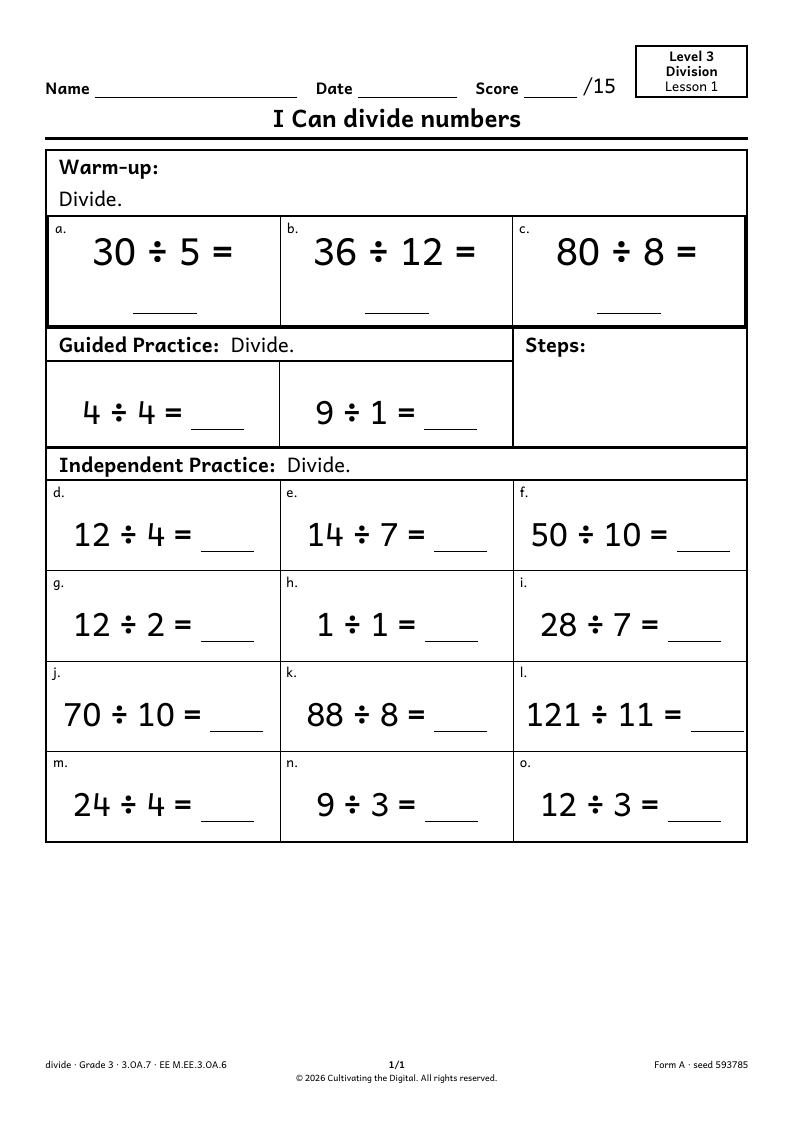
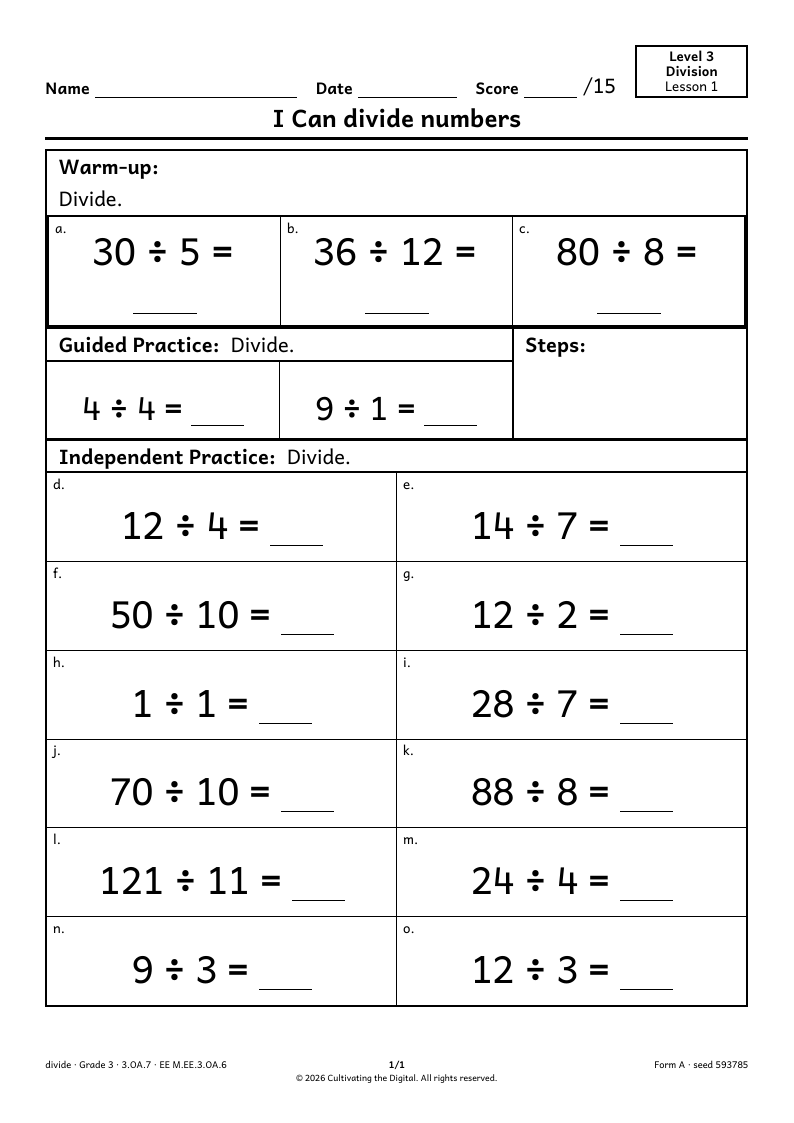
Lesson Independent band keeps CL-8's 3 mm: columns chosen from each problem's measured side clearance (critic R4 R-4)
The host's measurement records how near a cell's drawing comes to its side borders
(measured[cols].slackMm); the lesson's Independent band takes only column counts where every problem
it may print keeps 3 mm - fewer columns, never a cramped or shrunk problem. divide lesson p2 now
2 x 6 at S and L ("121 ÷ 11 = ___" 5.4 / 8.9 mm from its border, was 0.8 mm). Check R-4 on divide and
div_facts Standard at S and L on seeds that deal a 3-digit dividend. add_facts / mult_facts stay
pixel-identical to 50dbfa6; no div_facts evidence page changed.

Claude-Session: https://claude.ai/code/session_01M5EMD5ufNjURHDiNDLJjwD

diff --git a/js/modules/print-sheet.js b/js/modules/print-sheet.js
@@ -996,6 +996,7 @@ function measureItems(items, { size, look, colsList }) {
                     const padR = parseFloat(cs.paddingRight) || 0;
                     let hPx = r.height;
                     let fits = true;
+                    let slackPx = Infinity;
                     let contentBottom = r.top;
                     let stampH = 0;
                     const pics = [];
@@ -1010,6 +1011,11 @@ function measureItems(items, { size, look, colsList }) {
                         }
                         if (el.closest('.ws-legacy-answer')) continue;
                         contentBottom = Math.max(contentBottom, er.bottom);
+                        // CL-8: how near the drawing comes to the cell's side borders (its leaves,
+                        // the label aside) - a role choosing columns keeps 3 mm (critic R4 R-4)
+                        if ((!el.children.length || el.tagName === 'svg') && !el.closest('.ws-letter') && !(el.parentElement && el.parentElement.closest('svg'))) {
+                            slackPx = Math.min(slackPx, er.left - r.left, r.right - er.right);
+                        }
                         if (er.right > r.right - padR + 1 || er.left < r.left + padL - 1) { fits = false; why(it, c, `x ${el.tagName}.${el.className} +${((er.right - (r.right - padR)) / PX_PER_MM).toFixed(1)}mm w${(er.width / PX_PER_MM).toFixed(1)} of ${((r.width - padL - padR) / PX_PER_MM).toFixed(1)}`); }
                         // A clip under 1 mm is a stroke or a line box, not hidden content.
                         if ((ecs.overflowX === 'hidden' || ecs.overflowX === 'clip') && el.scrollWidth > el.clientWidth + PX_PER_MM) { fits = false; why(it, c, `ox ${el.tagName}.${el.className}`); }
@@ -1085,10 +1091,12 @@ function measureItems(items, { size, look, colsList }) {
                     }
                     const modes = Object.assign({}, best.modes || {});
                     for (const mode of Object.keys(vary)) modes[mode] = vary[mode] === null || modes[mode] === null ? null : Math.max(modes[mode] || 0, vary[mode]);
-                    best = { hMm: Math.max(best.hMm, hPx / PX_PER_MM), fits: best.fits && fits, modes, inkW };
+                    best = { hMm: Math.max(best.hMm, hPx / PX_PER_MM), fits: best.fits && fits, modes, inkW,
+                        slackMm: Math.min(best.slackMm === undefined ? Infinity : best.slackMm, slackPx / PX_PER_MM) };
                 }
                 it.measured = it.measured || {};
                 it.measured[c] = { hMm: Math.ceil(best.hMm * 10) / 10, fits: best.fits };
+                if (Number.isFinite(best.slackMm)) it.measured[c].slackMm = Math.floor(best.slackMm * 10) / 10;
                 if (best.modes && Object.keys(best.modes).length) {
                     it.measured[c].modes = {};
                     for (const [mode, h] of Object.entries(best.modes)) it.measured[c].modes[mode] = h === null ? null : Math.ceil(h * 10) / 10;

diff --git a/js/modules/sheet/roles/lesson.js b/js/modules/sheet/roles/lesson.js
@@ -96,6 +96,9 @@ export const reflowsAt = (it, cols) => {
     return !!it && it.template === 'equation' && !!a && !!b && Number.isFinite(a.hMm) && Number.isFinite(b.hMm) && b.hMm > a.hMm * 1.25;
 };
 
+/** CL-8: the least space (mm) a problem keeps from its cell's side borders. */
+const CL8_MM = 3;
+
 const warmPools = (input) => ((input.pools || []).map((p) => p.id)).filter((id) => /^w\d$/.test(id));
 
 /** How many cells each prerequisite gets in its share of the width. */
@@ -1282,7 +1285,11 @@ export function plan(input = {}) {
     // One across look on the page (critic R3 N-2): the Guided cells keep a division fact's line
     // beside the sentence, so the Independent band takes only columns where it stays beside.
     const icOpts = [icWanted, 3, 2, 1].filter((c, i, a) => a.indexOf(c) === i && c <= icWanted);
-    const icKeep = icOpts.filter((c) => c === 1 || !indepPool.slice(0, 6).some((it) => reflowsAt(it, c)));
+    // ... and only columns where every problem the band may print keeps CL-8's 3 mm from the cell's
+    // side borders, measured (`slackMm`; critic R4 R-4: "121 ÷ 11 = ___" ended 0.8 mm from its
+    // border in 3 columns) - fewer columns, never a cramped or shrunk problem.
+    const cramped = (it, c) => { const m = it.measured && it.measured[c]; return !!m && Number.isFinite(m.slackMm) && m.slackMm < CL8_MM; };
+    const icKeep = icOpts.filter((c) => c === 1 || !indepPool.slice(0, 21).some((it) => reflowsAt(it, c) || cramped(it, c)));
     const ic = bestCols(indepPool.slice(0, 6), icKeep.length ? icKeep : icOpts, ctx);
     const twins = new Map(extrasList.filter((x) => x.lessonIndepOf).map((x) => [x.lessonIndepOf, x]));
     const hI = hAt(indepPool.slice(0, ic * 3).map((it) => twins.get(it) || it), ic);

diff --git a/design/audit/runs/div-facts-forms/INDEX.md b/design/audit/runs/div-facts-forms/INDEX.md
@@ -285,7 +285,9 @@ Lesson and Independent pages of five other skills, rendered by `ws-grade-render 
 | `addition:add_facts` | Pixel-identical, every page and key, S and L |
 | `multiplication:mult_facts` | Pixel-identical, every page and key, S and L |
 | `division:long_div_2digit` | Only the bracket arc's join with the vinculum (161-774 px a page): the arc meets one continuous bar |
-| `division:divide` | Lesson p2 changed on purpose (R-2): warm-up 3, Independent 12, strip 0.34 (S) / 0.25 (L) against the parent's 0.37; p1 only its Score. Independent identical |
+| `division:divide` | Lesson p2 changed on purpose (R-2): warm-up 3, Independent 12. After critic R4's R-4 the Independent band is 2 x 6 at S and L, so "121 ÷ 11 = ___" keeps CL-8's 3 mm from its cell border (5.4 mm at S, 8.9 mm at L); p1 only its Score. Independent identical |
 | `division:div_remainders` | Lesson p2 changed: no overflow at S or L (the parent overflowed at S); the warm-up band is one look and one digit size (R-3: the kit cell drawn at the legacy cell's 28 pt, line beside). Independent identical |
 
 Round-4 lesson pages of the two other division skills: [cmp-r4-div_remainders-lesson-p2-S.png](cmp-r4-div_remainders-lesson-p2-S.png), [cmp-r4-div_remainders-lesson-p2-L.png](cmp-r4-div_remainders-lesson-p2-L.png), [cmp-r4-divide-lesson-p2-S.png](cmp-r4-divide-lesson-p2-S.png), [cmp-r4-divide-lesson-p2-L.png](cmp-r4-divide-lesson-p2-L.png).
+
+R-4 (critic R4, follow-up): the lesson's Independent band takes only column counts where every problem it may print keeps 3 mm from its cell's side borders, measured by the host (`measured[cols].slackMm`). No div_facts evidence page changed (pixel-compared); `add_facts` and `mult_facts` stay pixel-identical to `50dbfa6`.
